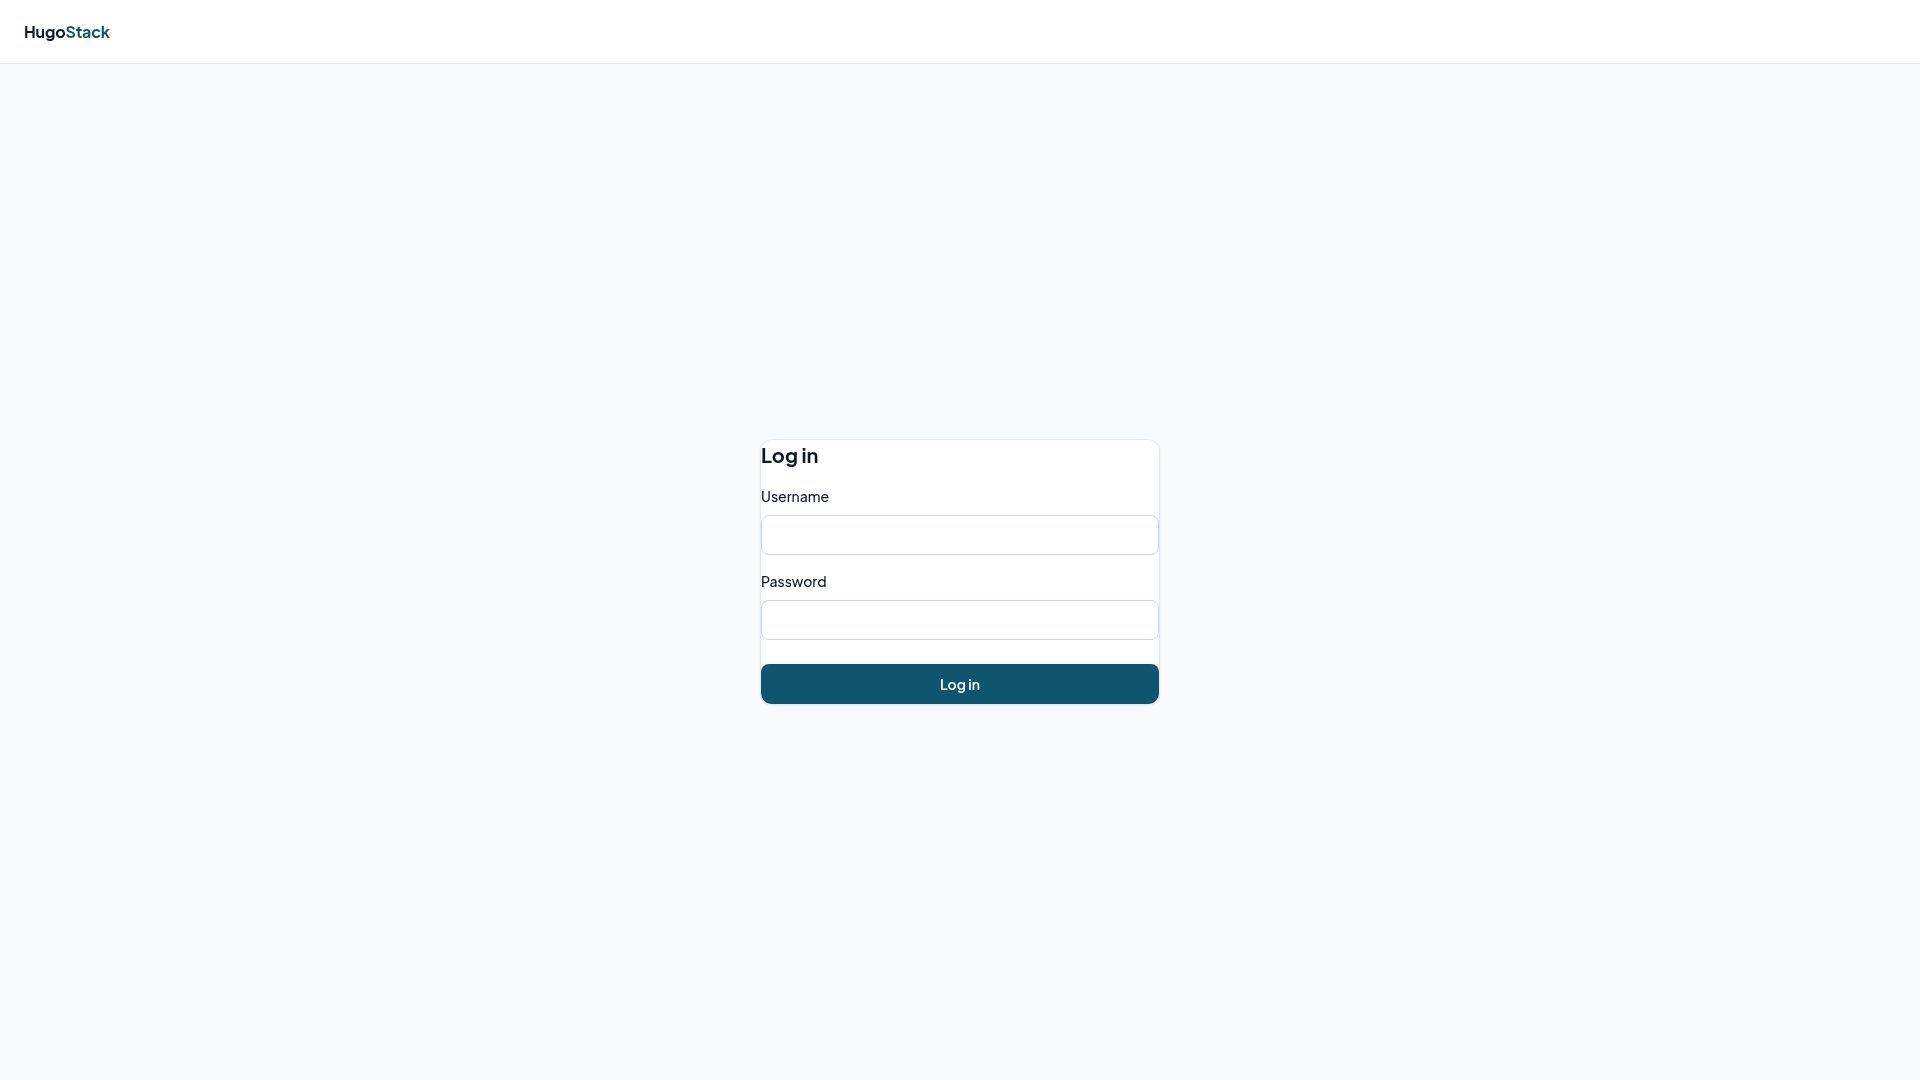
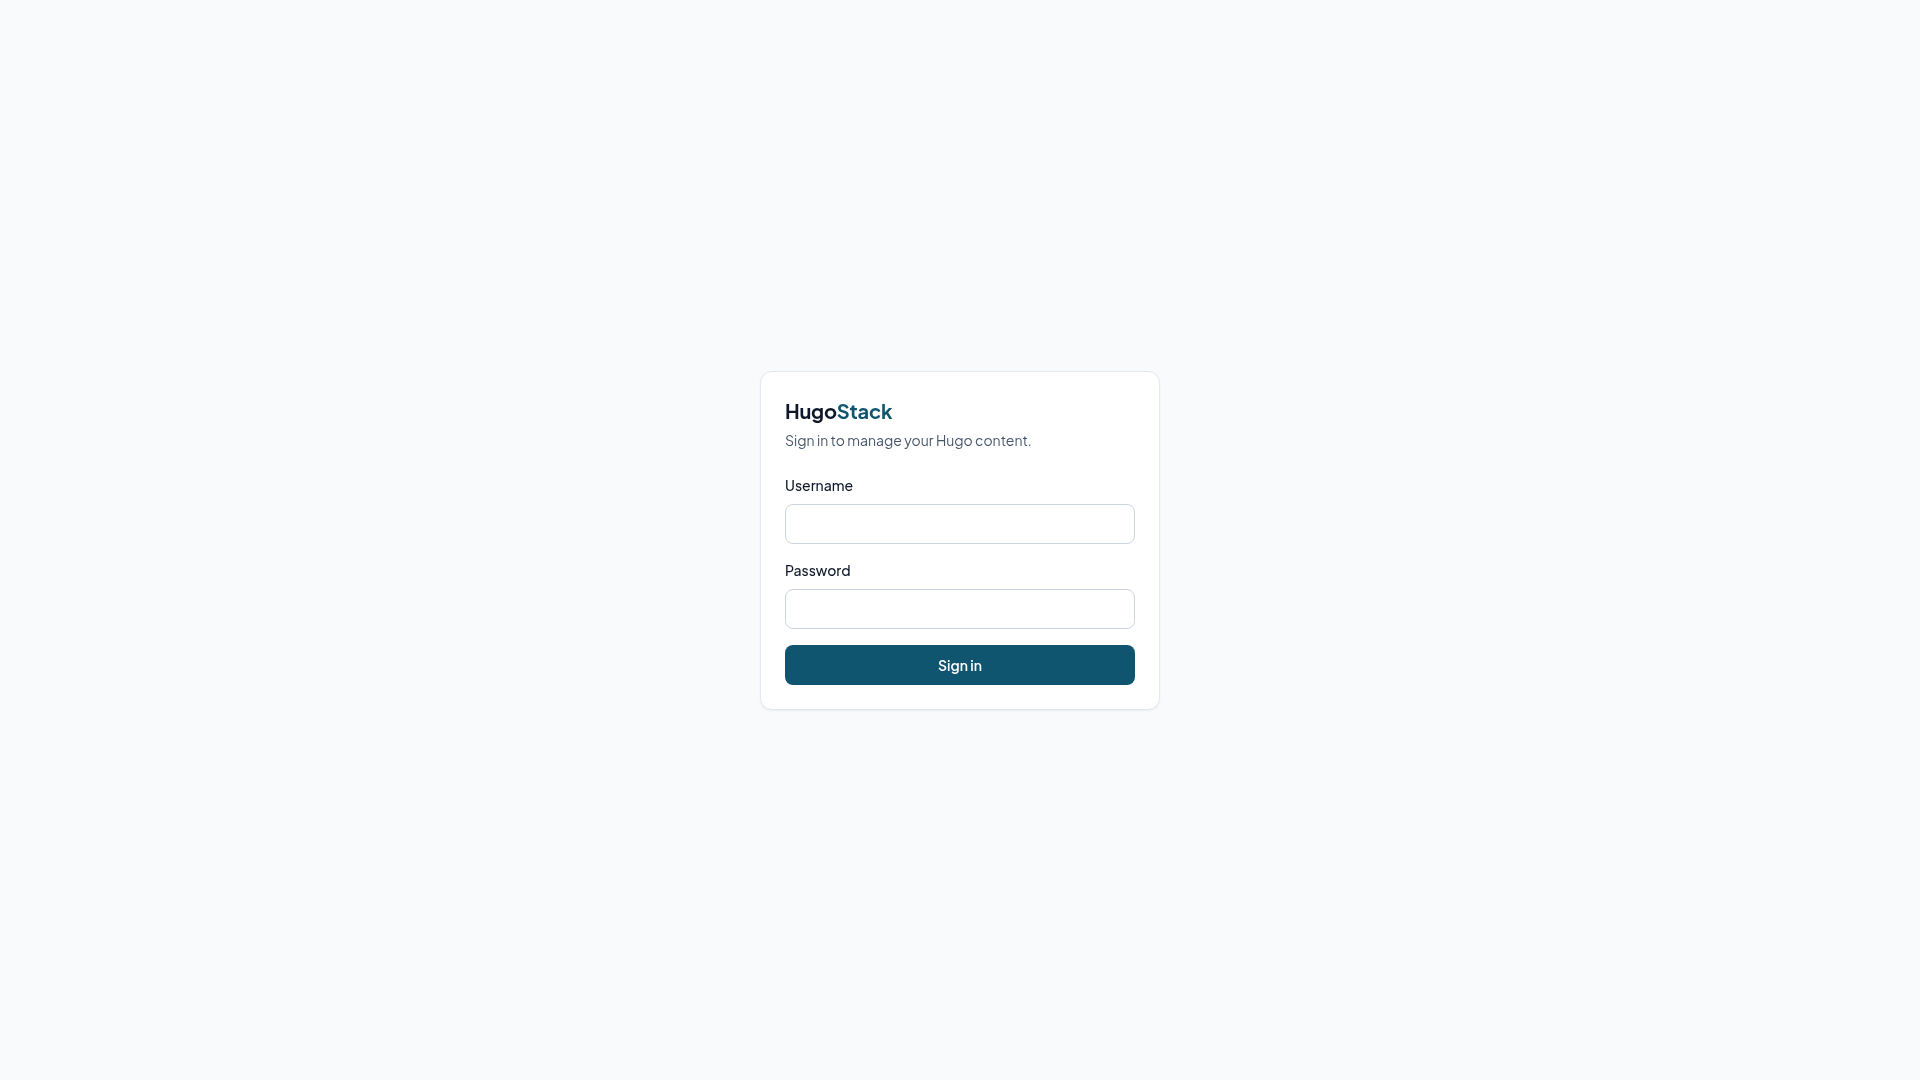
Login page: match homelab-console design (standalone full-viewport centered card, in-card brand + subtitle)

Changed region(s): [[0.375, 0.5806, 0.625, 0.6722], [0.4062, 0.3667, 0.5312, 0.4889], [0.4062, 0.5194, 0.4375, 0.55]]

diff --git a/ui/templates/login.html b/ui/templates/login.html
@@ -1,17 +1,18 @@
 {{define "body"}}
 <div class="login-wrap">
   <div class="card login-card">
-    <h1 class="login-card__title">Log in</h1>
-    <form id="login-form" class="form" method="POST" action="/login">
+    <div class="login-brand">Hugo<em>Stack</em></div>
+    <p class="login-sub">Sign in to manage your Hugo content.</p>
+    <form id="login-form" class="form" method="POST" action="/login" autocomplete="on">
       <div class="field">
         <label class="field__label" for="user">Username</label>
-        <input id="user" name="user" autocomplete="username" autofocus>
+        <input id="user" name="user" type="text" autocomplete="username" required autofocus>
       </div>
       <div class="field">
         <label class="field__label" for="pass">Password</label>
-        <input id="pass" name="pass" type="password" autocomplete="current-password">
+        <input id="pass" name="pass" type="password" autocomplete="current-password" required>
       </div>
-      <button id="login-btn" class="btn btn--primary login-card__btn" type="submit">Log in</button>
+      <button id="login-btn" class="btn btn--primary" type="submit">Sign in</button>
     </form>
   </div>
 </div>
@@ -33,21 +34,20 @@
     e.preventDefault();
     btn.disabled = true;
     var orig = btn.textContent;
-    btn.textContent = "Logging in…";
+    btn.textContent = "Signing in\u2026";
     fetch(form.action, {
       method: "POST",
       body: new FormData(form),
       credentials: "same-origin",
     }).then(function (res) {
-      // server answers 303 + cookie on success (fetch follows to / -> 200),
-      // 401 on bad credentials.
       if (res.ok) {
-        showToast("Signed in — welcome back", true);
-        setTimeout(function () { location.href = "/"; }, 1000);
+        showToast("Signed in \u2014 welcome back", true);
+        setTimeout(function () { location.replace("/"); }, 1000);
       } else {
         showToast("Invalid username or password", false);
         btn.disabled = false;
         btn.textContent = orig;
+        document.getElementById("pass").focus();
       }
     }).catch(function (err) {
       showToast("Login failed: " + err.message, false);

diff --git a/ui/static/style.css b/ui/static/style.css
@@ -117,19 +117,26 @@ body {
    .is-preview-hidden on #pane-md) - the split view wants the extra room. */
 .main:has(#pane-md:not(.is-preview-hidden)) { max-width: none; margin: 0; }
 
-/* Login: centered card on the remaining viewport (BookStack-style) */
-/* login is the only page whose card must center on the FULL viewport, so
-   lift the content max-width there. */
-.main:has(.login-wrap) { max-width: none; }
+/* Login: standalone full-viewport centered card (homelab-console style) */
 .login-wrap {
-  display: grid;
-  place-items: center;
-  min-height: calc(100vh - var(--style-topbar-height) - 2 * var(--style-page-padding));
-  padding: var(--style-page-padding) 0;
+  min-height: 100vh;
+  display: flex;
+  align-items: center;
+  justify-content: center;
+  padding: var(--style-spacing-4);
 }
-.login-card { width: 100%; max-width: 400px; }
-.login-card__title { margin: 0 0 var(--style-spacing-4); font-size: var(--style-text-xl); }
-.login-card__btn { width: 100%; margin-top: var(--style-spacing-2); }
+.login-card {
+  width: 100%;
+  max-width: 400px;
+  margin: 0;
+  padding: var(--style-spacing-6);
+  box-shadow: var(--style-shadow-md);
+}
+.login-brand { font-size: var(--style-text-xl); font-weight: 700; letter-spacing: -0.01em; }
+.login-brand em { font-style: normal; color: var(--style-text-brand); }
+.login-sub { margin: 4px 0 var(--style-spacing-6); font-size: var(--style-text-sm); color: var(--style-text-secondary); }
+.login-card .form { max-width: none; }
+.login-card .btn { width: 100%; }
 
 /* Toast (login success/error) */
 .toast {

diff --git a/ui/templates/shell.html b/ui/templates/shell.html
@@ -11,28 +11,25 @@
 <style>{{.CSS}}</style>
 </head>
 <body>
+{{if .NoNav}}
+{{template "body" .}}
+{{else}}
 <header class="topbar">
   <div class="topbar__left">
     <div class="topbar__brand">Hugo<em>Stack</em></div>
-    {{if not .NoNav}}
     <nav class="topbar__nav" aria-label="Main">
       <a class="topbar__action{{if eq .Active "posts"}} is-active{{end}}" href="/">Posts</a>
       <a class="topbar__action{{if eq .Active "settings"}} is-active{{end}}" href="/settings">Settings</a>
     </nav>
-    {{end}}
   </div>
-  {{if not .NoNav}}
   <a class="topbar__action topbar__action--danger" href="/logout">Log out</a>
-  {{end}}
 </header>
 <div class="shell">
   <main class="main">
-    {{if not .NoNav}}
     <nav class="breadcrumb" aria-label="Breadcrumb">
       <a href="/">Hugo</a>
       {{if .BreadcrumbCurrent}}<span class="breadcrumb__sep">/</span><span class="breadcrumb__current">{{.BreadcrumbCurrent}}</span>{{end}}
     </nav>
-    {{end}}
     {{if .BannerTitle}}
     <div class="error" role="alert">
       <p class="error__title">{{.BannerTitle}}</p>
@@ -42,6 +39,7 @@
     {{template "body" .}}
   </main>
 </div>
+{{end}}
 {{if .PageJS}}
 <script>{{.PageJS}}</script>
 {{end}}
